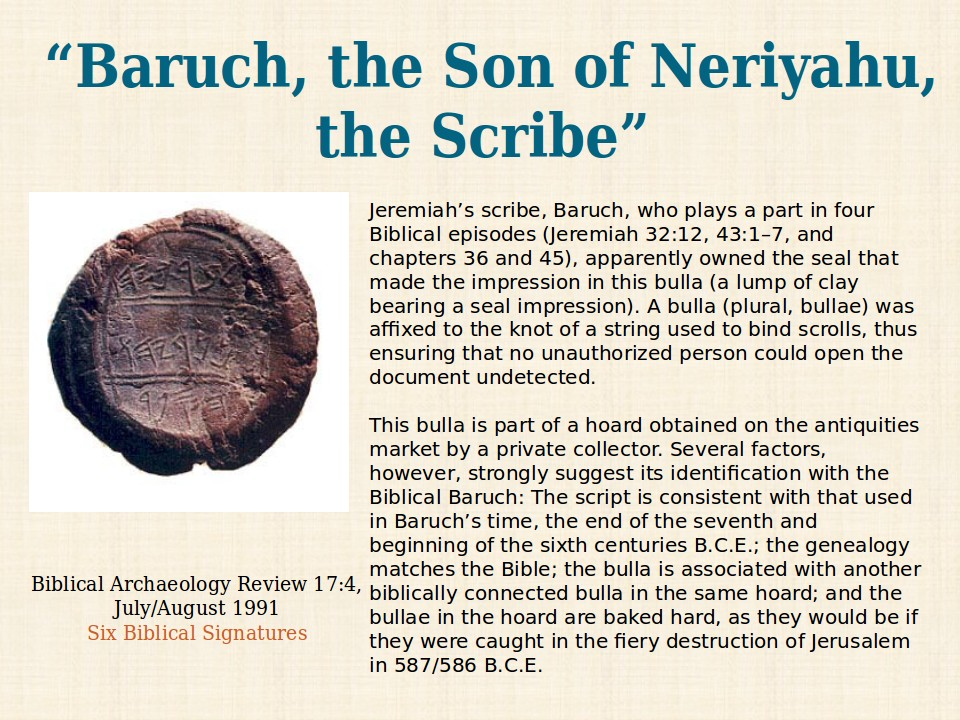
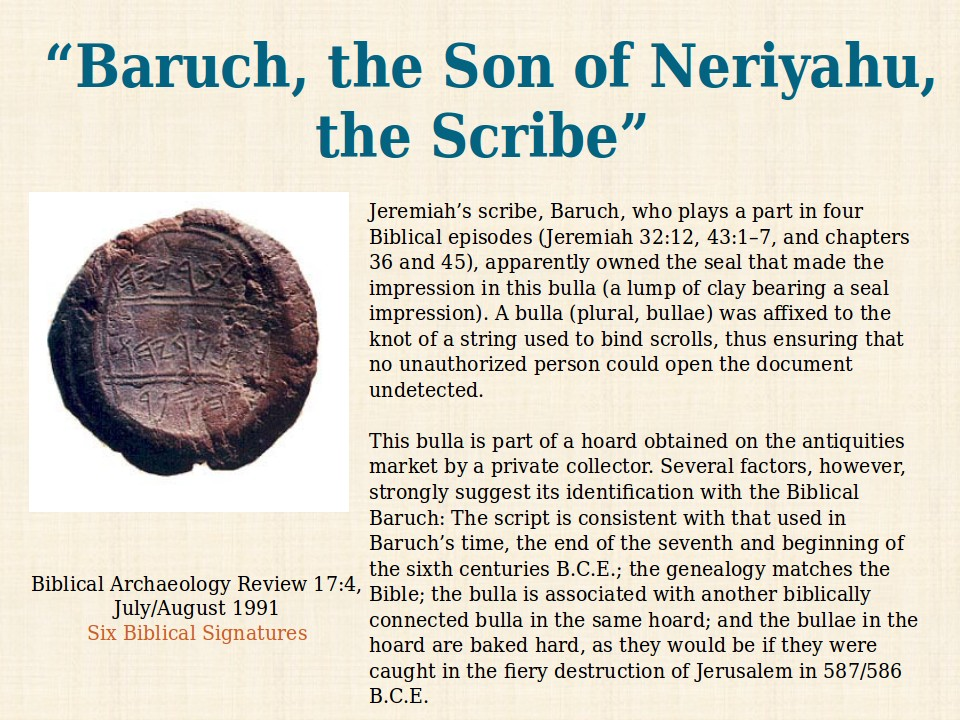
font fixes and one stray slide

Changed region(s): [[0.375, 0.5806, 0.9688, 0.9778], [0.375, 0.275, 0.9688, 0.55]]

diff --git a/Rom2.html b/Rom2.html
@@ -220,19 +220,19 @@ img {
   <div class="item">
     <a href="https://members.bib-arch.org/biblical-archaeology-review/36/1/27" target="_blank"><img src="Rom/Slide19.JPG" alt="Judaea Capta"></a>
   </div>
-<!-- <div class="item">
+<div class="item">
   <a href="https://members.bib-arch.org/biblical-archaeology-review/31/4/2" target="_blank"><img src="Rom/Slide20.JPG" alt="Temple Menorah"></a>
-</div> -->
+</div>
 <div class="item">
   <a href="https://members.bib-arch.org/biblical-archaeology-review/9/6/4" target="_blank"><img src="Rom/Slide21.JPG" alt="Jerusalem and the Temple Are Destroyed by Titus"></a>
 </div>
 <div class="item">
   <a href="https://members.bib-arch.org/biblical-archaeology-review/36/3/4" target="_blank"><img src="Rom/Slide22.JPG" alt="Underground Tunnels"></a>
 </div>
-<div class="item">
-  <!-- for menorah https://members.bib-arch.org/biblical-archaeology-review/37/6/22 -->
+<!-- <div class="item">
+  !!! for menorah https://members.bib-arch.org/biblical-archaeology-review/37/6/22 
   <a href="https://members.bib-arch.org/images/bsba400303900ljpg" target="_blank"><img src="Rom/Slide23.JPG" alt="Destruction - Earing, Menorah"></a>
-</div>
+</div> -->
 <div class="item">
   <a href="https://members.bib-arch.org/images/bsba180102803ljpg" target="_blank"><img src="Rom/Slide27.JPG" alt="Roman Ballista Stones"></a>
 </div>
